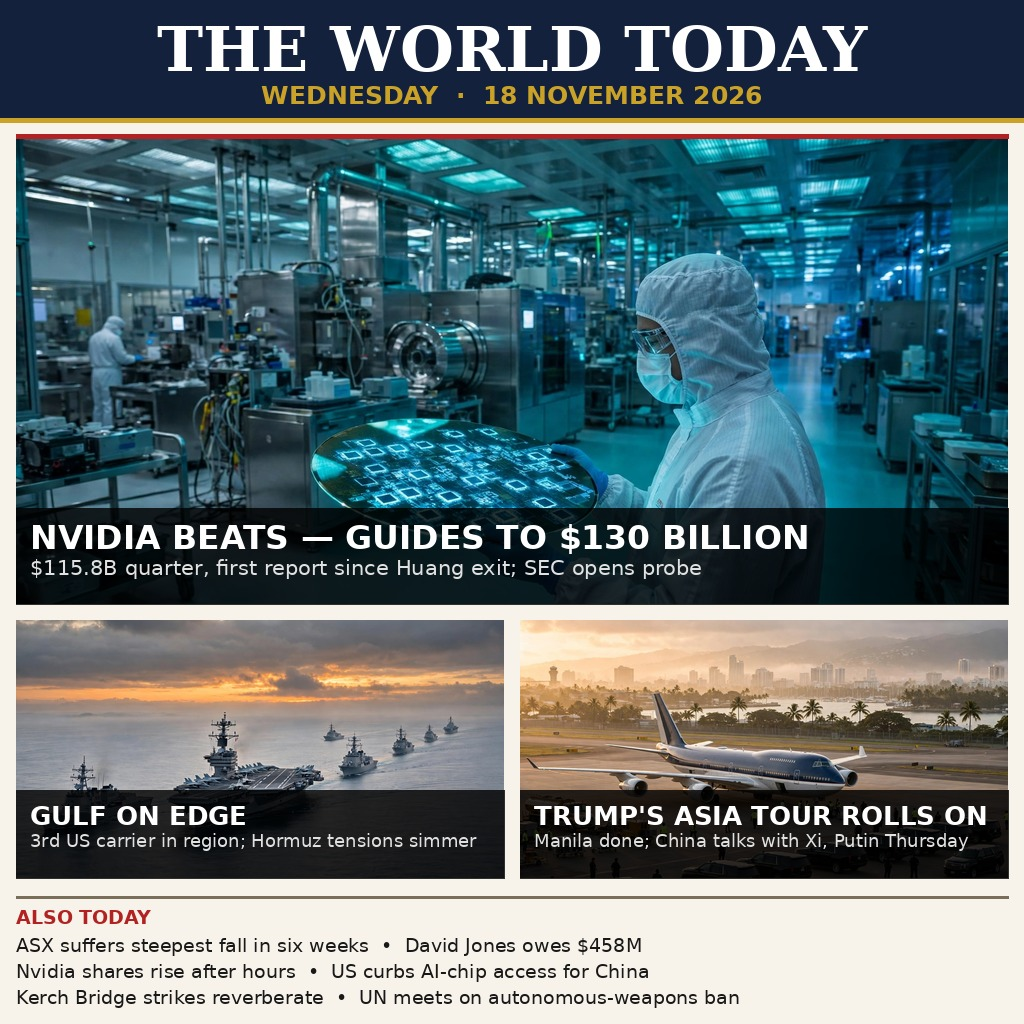
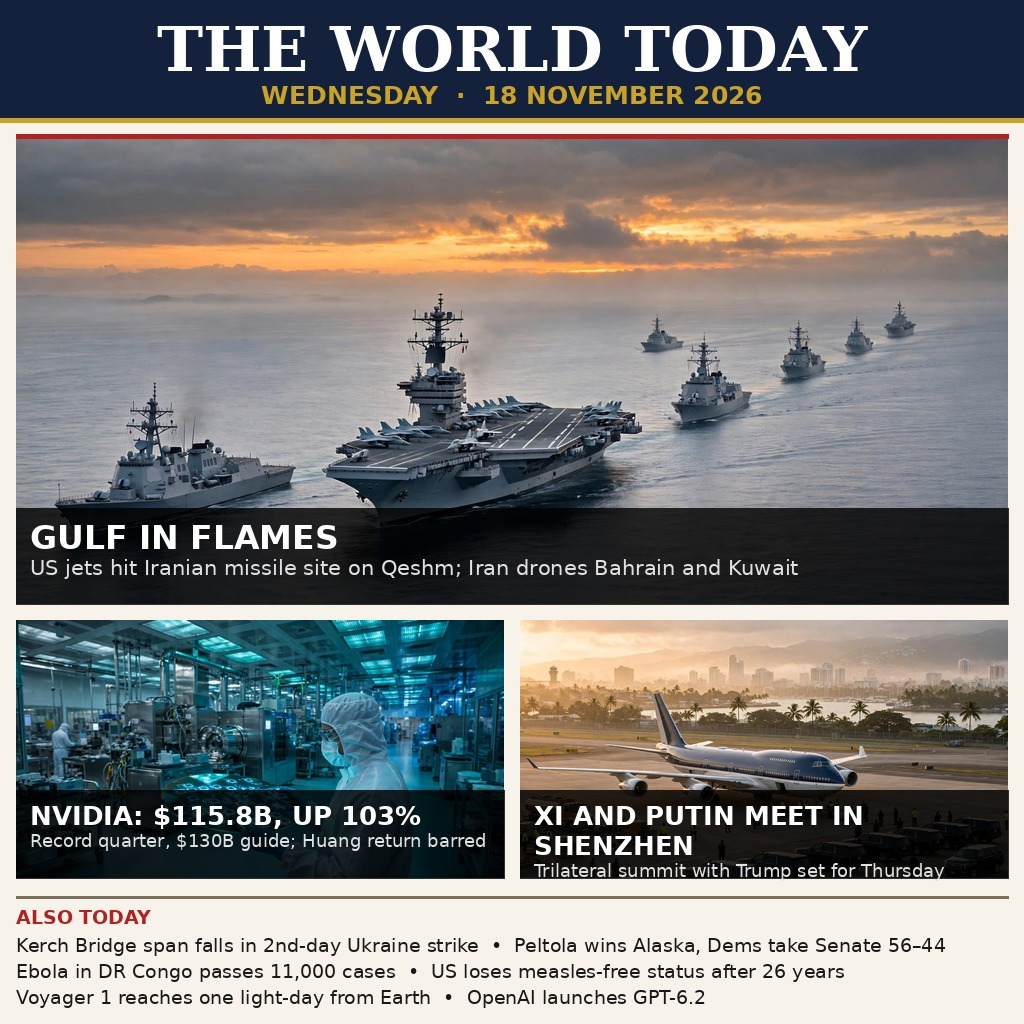
v2 front page — full day 18 Nov 2026: Gulf strikes lead, Nvidia + Shenzhen, updated Also Today

diff --git a/main.py b/main.py
@@ -1,12 +1,22 @@
 #!/usr/bin/env python3
 """news-image-20261118 — reproduce the front page for 18 November 2026.
 
-The artwork (a one-page newspaper front page, 1024x1024 JPEG) is stored
-next to this file as entry.png. Running this script copies it verbatim
-into the output directory and then checks, using only the Python
-standard library, that the copy is a complete, well-formed JPEG of the
-expected size. No pixels are generated or altered here: the point of
-the program is a byte-for-byte, deterministic reproduction.
+The artwork (a one-page newspaper front page, 1024x1024 JPEG, 287,874
+bytes) is stored next to this file as entry.png. Running this script
+copies it verbatim into the output directory and then checks, using
+only the Python standard library, that the copy is a complete,
+well-formed JPEG of the expected size. No pixels are generated or
+altered here: the point of the program is a byte-for-byte,
+deterministic reproduction.
+
+v2 front page — THE WORLD TODAY, Wednesday 18 November 2026. Lead:
+GULF IN FLAMES — US jets hit an Iranian missile site on Qeshm, Iran
+drones Bahrain and Kuwait. Second row: NVIDIA $115.8B, up 103%
+(record quarter, $130B guide), and XI AND PUTIN MEET IN SHENZHEN
+ahead of Thursday's trilateral summit with Trump. Footer strip
+("Also Today"): Kerch Bridge span falls, Peltola wins Alaska 56–44,
+Ebola passes 11,000 cases, US loses measles-free status, Voyager 1
+reaches one light-day from Earth, OpenAI launches GPT-6.2.
 
 Usage:
     MAKEFUN_OUTPUT_DIR=out python3 main.py
@@ -25,6 +35,7 @@ OUTPUT = os.path.join(OUTPUT_DIR, "entry.png")
 
 EXPECTED_WIDTH = 1024
 EXPECTED_HEIGHT = 1024
+# v2 front page: entry.png is 287,874 bytes (1024x1024 JPEG).
 MAX_FILE_SIZE = 1_048_576  # 1 MiB, the competition limit
 
 

diff --git a/README.md b/README.md
@@ -5,15 +5,15 @@
 [![reward](https://make.fun/badge/news-image-20261118/stfu-onad/news-image-20261118/reward.svg)](https://make.fun/bounty/news-image-20261118?utm_source=github&utm_medium=readme&utm_campaign=news-image-20261118)
 
 One image that sums up Wednesday 18 November 2026: a newspaper front page,
-**THE WORLD TODAY**. The lead story is Nvidia's blowout quarter — $115.8B in
-revenue with guidance up to $130B, the company's first report since Jensen
-Huang stepped down, with an SEC probe now open. Below it, two photo panels:
-a US carrier group in the Gulf as Hormuz tensions simmer, and President
-Trump's Asia tour rolling on from Manila toward talks with Xi and Putin. The
-"Also Today" strip rounds out the day — the ASX's steepest fall in six weeks,
-David Jones owing $458M, Nvidia shares rising after hours, US curbs on AI-chip
-access for China, Kerch Bridge strikes, and the UN meeting on an
-autonomous-weapons ban.
+**THE WORLD TODAY**. The lead story is **GULF IN FLAMES** — US jets hit an
+Iranian missile site on Qeshm, and Iran drones Bahrain and Kuwait. The second
+row pairs Nvidia's record quarter — **$115.8B, up 103%**, with a $130B guide —
+against **XI AND PUTIN MEET IN SHENZHEN** ahead of Thursday's trilateral
+summit with Trump. The "Also Today" strip rounds out the day — a Kerch Bridge
+span falls in a second-day Ukraine strike, Peltola wins Alaska 56–44, Ebola
+in DR Congo passes 11,000 cases, the US loses measles-free status after 26
+years, Voyager 1 reaches one light-day from Earth, and OpenAI launches
+GPT-6.2.
 
 ## Run it
 
@@ -21,15 +21,16 @@ autonomous-weapons ban.
 mkdir -p out && MAKEFUN_OUTPUT_DIR=out python3 main.py
 ```
 
-This copies `entry.png` (1024×1024 JPEG, 306,013 bytes) into the output
+This copies `entry.png` (1024×1024 JPEG, 287,874 bytes) into the output
 directory and verifies it byte-for-byte: JPEG start/end markers, dimensions
 read from the SOF header, and the 1 MiB size limit. Python 3.13, standard
 library only — no dependencies to install.
 
 ## Sources
 
-The headlines follow reporting from Reuters, the NY Post, The Register
-Australia, and Dealroom on Nvidia's earnings of 17–18 November 2026, plus
-same-day coverage of the Gulf carrier deployment, Trump's Asia trip, the ASX
-drop, and the David Jones debt. The three photographs on the page are
-AI-rendered illustrations, not real photos.
+The headlines follow reporting from Reuters via the Zark News daily
+briefing of 18 November 2026, One Turn world news of 18 November 2026,
+the Open Chronicle global brief of 18 November 2026, the XTB morning
+wrap of 18.11.2026, Briefing.com Story Stocks of 18 November 2026, and
+the aiagentupdate report on Nvidia's Q3 FY2027 results. The three
+photographs on the page are AI-rendered illustrations, not real photos.
